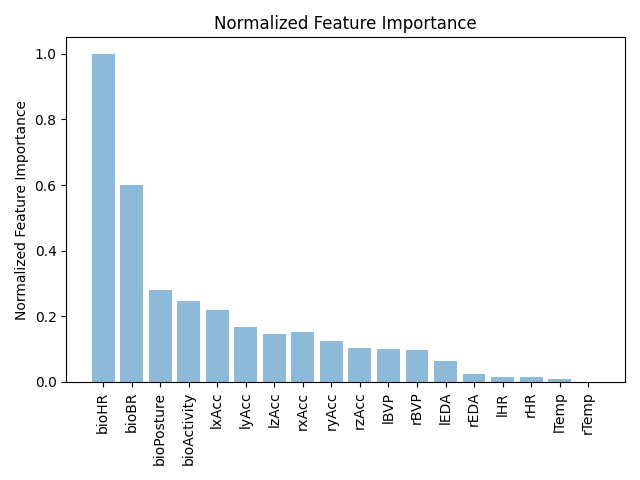
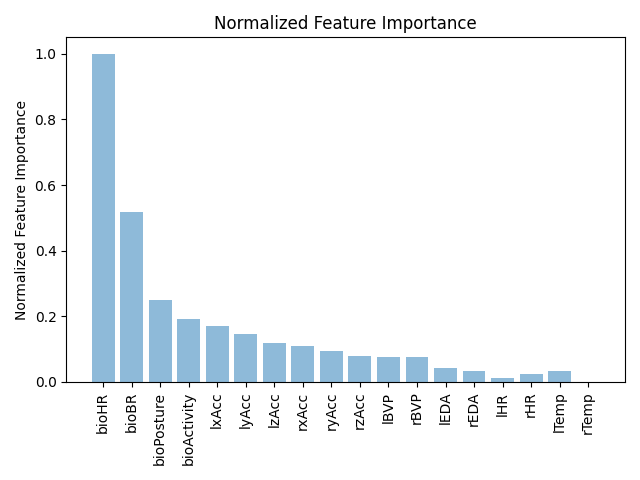
nn.py ran for a long time, new data added.

Changed region(s): [[0.2188, 0.5938, 0.75, 0.7812], [0.8125, 0.75, 0.9062, 0.8125], [0.1875, 0.375, 0.25, 0.4688]]

diff --git a/src/experiments/nn.py b/src/experiments/nn.py
@@ -9,7 +9,7 @@ from data_primer import standardizeDataDims
 # Hyperparameters
 learningRate = 0.01
 momentum = 0.9
-epochs = 128
+epochs = 256
 batchSize = 64
 nfold = 10
 numClasses = 10
@@ -262,6 +262,7 @@ def featureImportance(device, X, XLabels, Y):
   for i in range(numFeatures):
     valAccFeaturesStandardized[i] = valAccNormal - valAccFeatures[i]
   vafs = valAccFeaturesStandardized
+  valAccFeaturesErr = 1 - vafs
   vafs = (vafs.max(axis=0) - vafs) / (vafs.max(axis=0) - vafs.min(axis=0))
   normalizedFeatureImportance = vafs
 
@@ -272,6 +273,15 @@ def featureImportance(device, X, XLabels, Y):
   plt.title('Normalized Feature Importance')
   plt.tight_layout()
   plt.savefig('../../data/nnNormalizedFeatureImportance.png')
+  plt.close()
+
+  # Create a bar graph for feature importance
+  plt.bar(np.arange(numFeatures), valAccFeaturesErr, align='center', alpha=0.5)
+  plt.xticks(np.arange(numFeatures), XLabels, rotation='vertical')
+  plt.ylabel('Feature Importance')
+  plt.title('Feature Importance')
+  plt.tight_layout()
+  plt.savefig('../../data/nnFeatureImportance.png')
   plt.close()
 
   # Return
